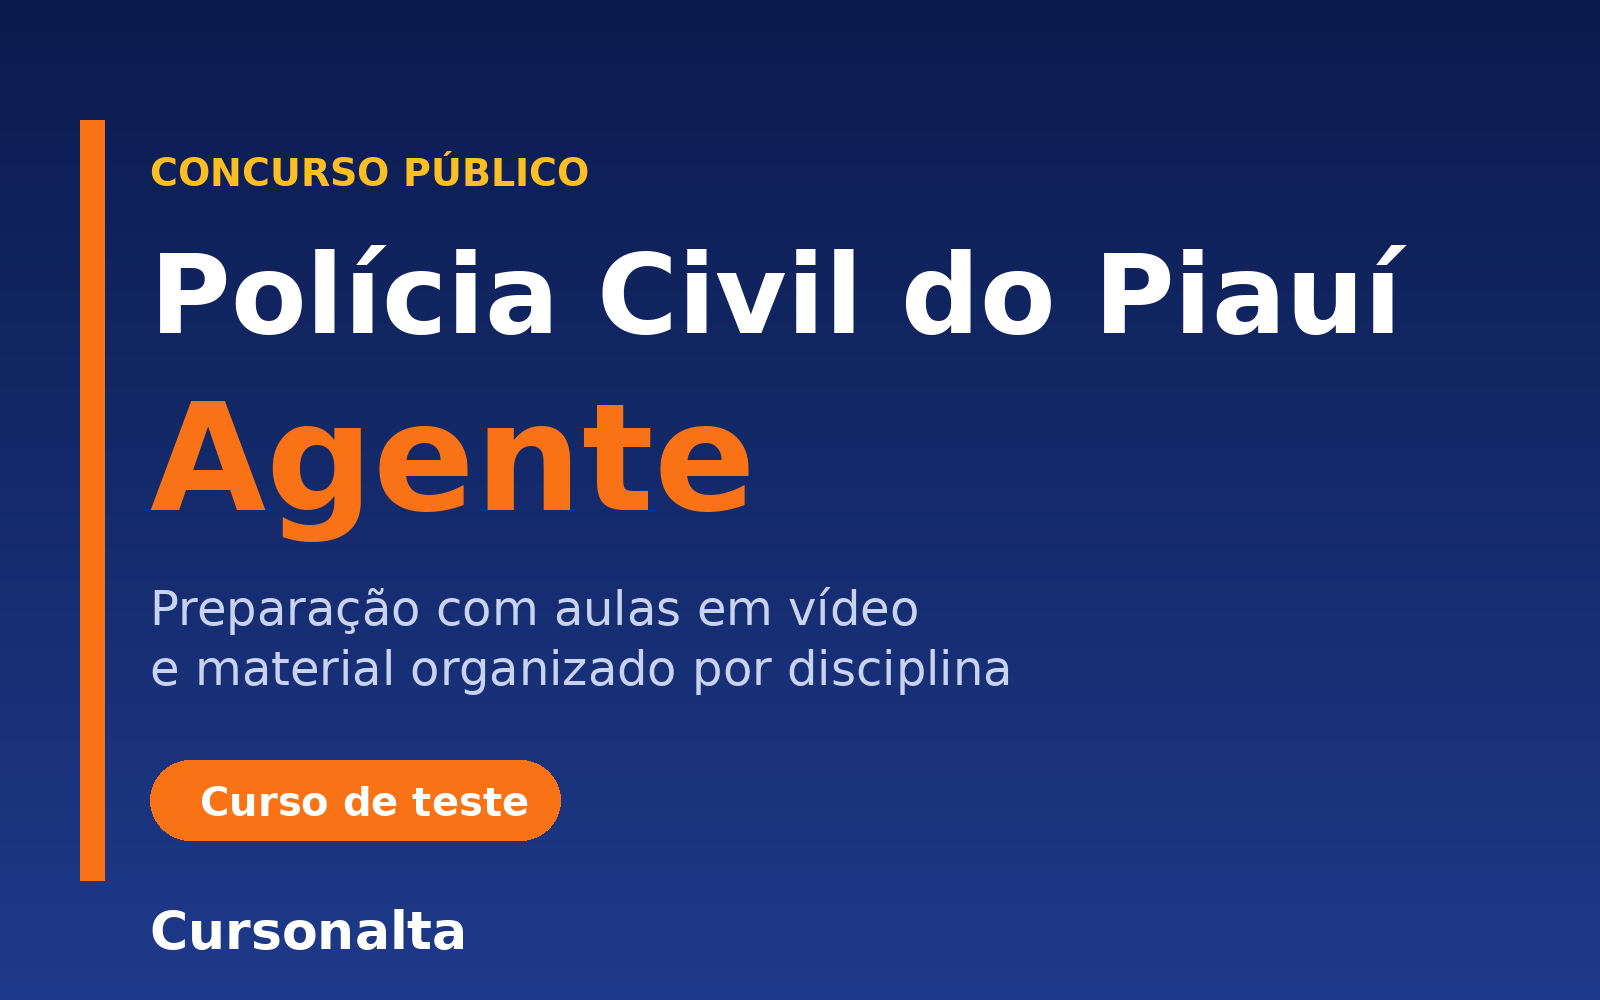
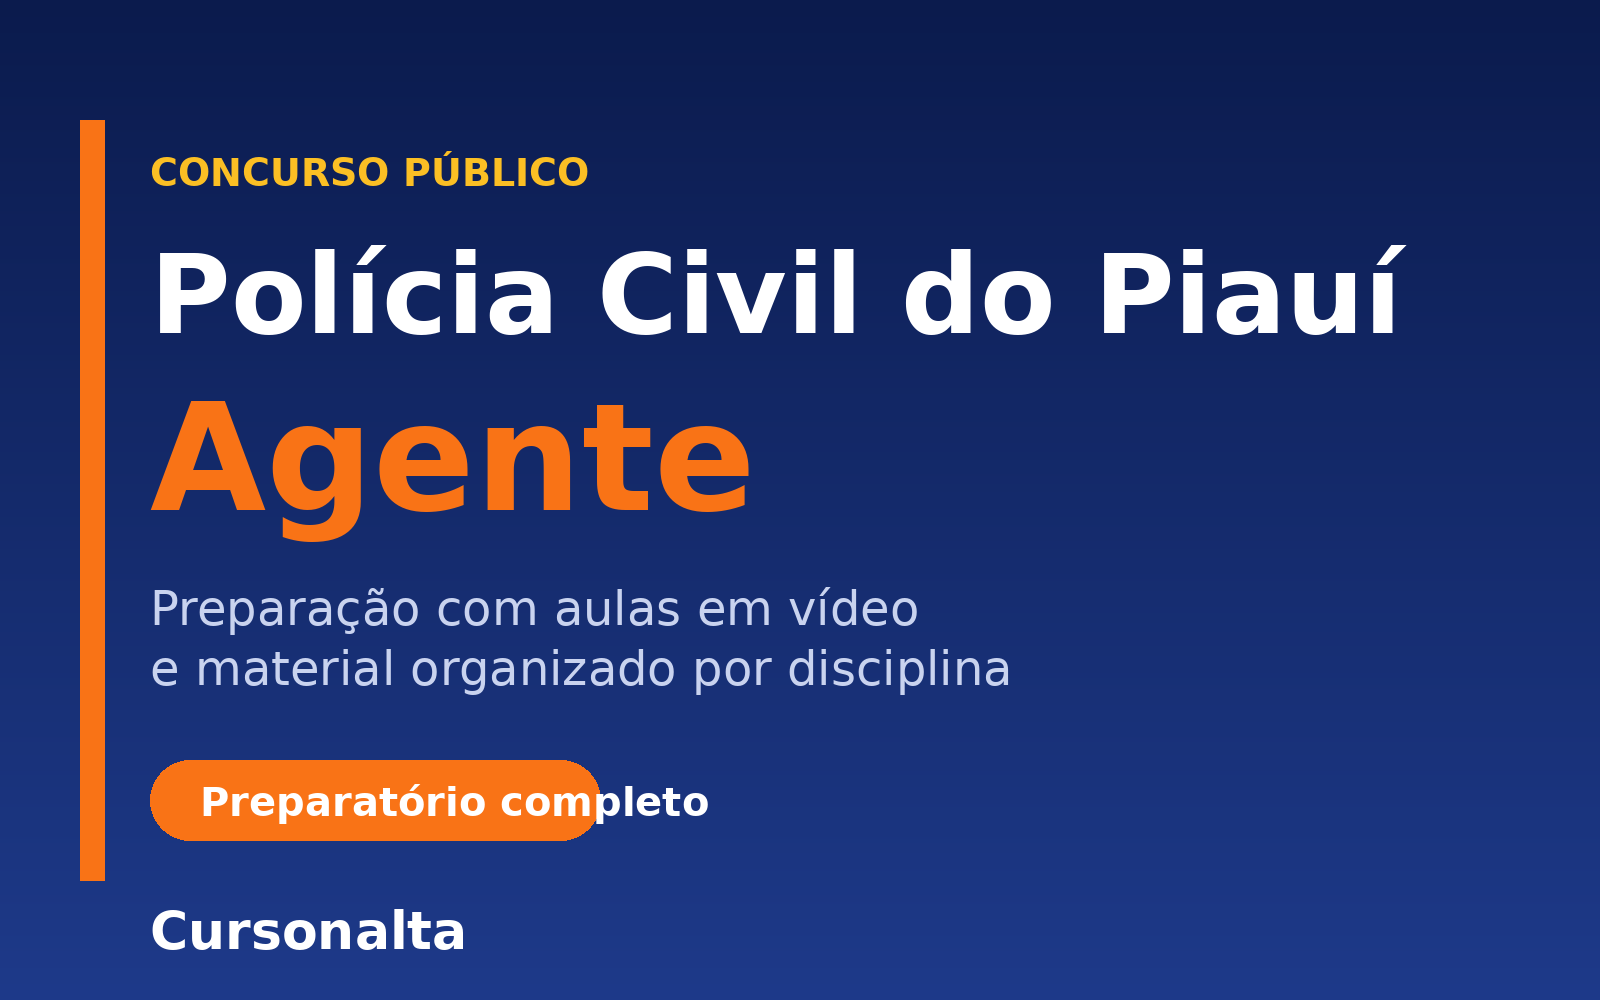
Remove termos de teste dos textos e da capa
Claude-Session: https://claude.ai/code/session_01NS7Hnb65pZKcFRh7KgykFT

Changed region(s): [[0.125, 0.744, 0.4375, 0.837]]

diff --git a/js/courses.js b/js/courses.js
@@ -6,9 +6,9 @@
 window.COURSES = [
   {
     id: "policia-civil-pi-agente",
-    title: "Polícia Civil do Piauí: Agente (TESTE)",
+    title: "Polícia Civil do Piauí: Agente",
     shortDescription: "Preparação para o concurso de Agente da Polícia Civil do Piauí, com aulas em vídeo e material de estudo.",
-    description: "Curso preparatório para o cargo de Agente da Polícia Civil do Piauí. Conteúdo organizado por disciplina do edital, com aulas em vídeo e material de apoio. Este registro é um teste da vitrine e do fluxo de assinatura.",
+    description: "Curso preparatório para o cargo de Agente da Polícia Civil do Piauí. Conteúdo organizado por disciplina do edital, com aulas em vídeo e material de apoio.",
     category: "Concursos",
     level: "Todos os níveis",
     instructor: { name: "Equipe Cursonalta", role: "Conteúdo de concursos", initials: "CN" },
